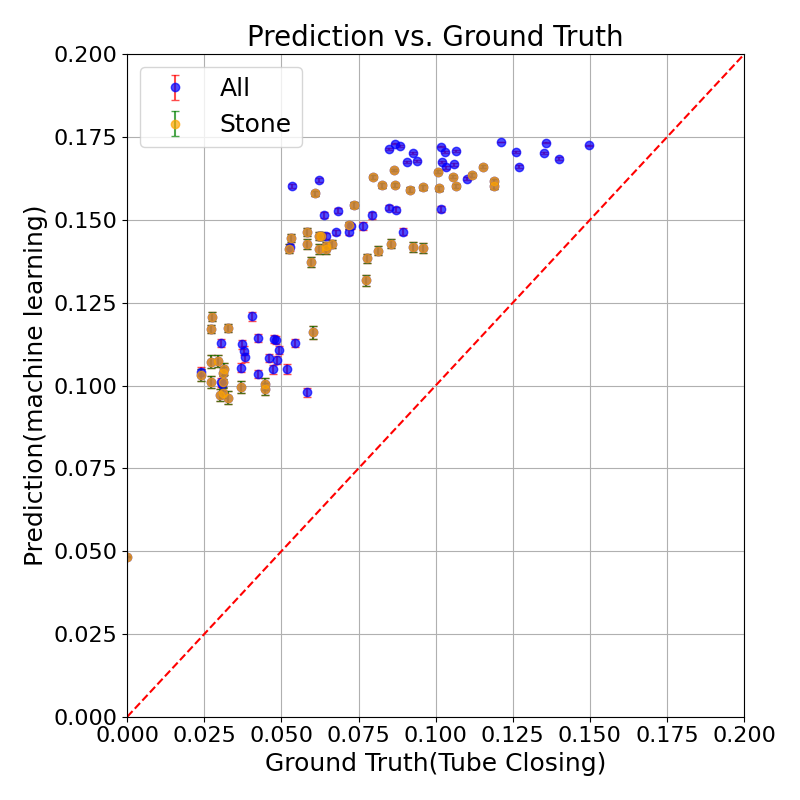
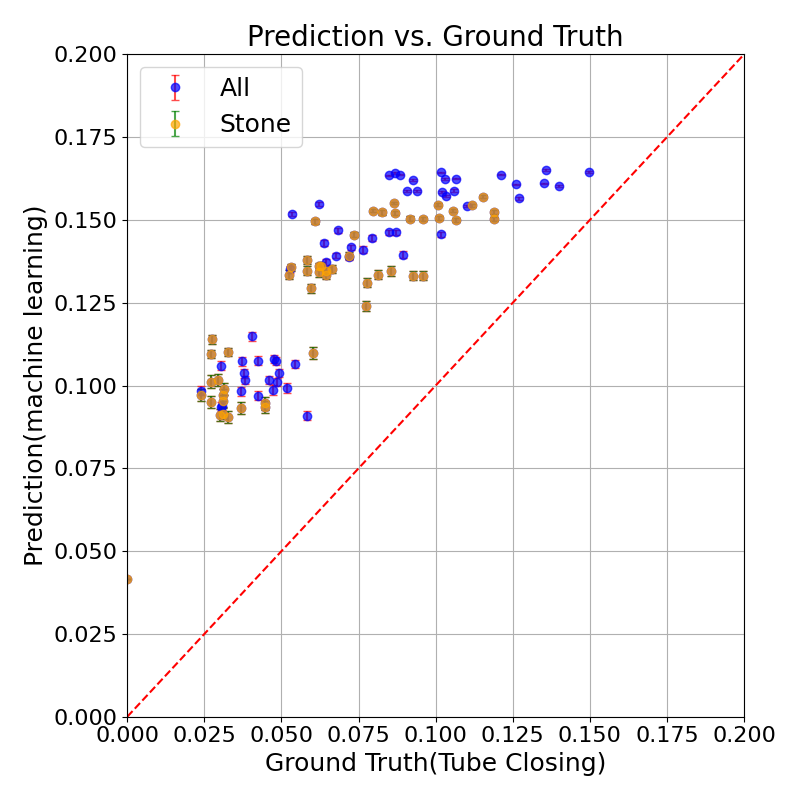
subtle change

Changed region(s): [[0.3438, 0.1562, 0.75, 0.4062], [0.2188, 0.375, 0.4062, 0.5312]]

diff --git a/src/utils.py b/src/utils.py
@@ -132,7 +132,24 @@ def preprocess(path, device="cuda:0", filter_freq=[0, 1.0e9],
     from scipy import signal
     x_tmp = x_test.copy()
     x_tmp_for_fft = x_test.copy()
-    x_test_filterd=filter_signal(filter_freq, x_tmp, fs)
+    import pywt
+
+    x_tmp = x_tmp - np.mean(x_tmp, axis=1)[:,np.newaxis]
+    def maddest(d, axis=None):
+        return np.mean(np.absolute(d - np.mean(d, axis)[:,np.newaxis]), axis)
+    def denoise(x, wavelet='db9', level=1):
+        coeff = pywt.wavedec(x, wavelet, mode="per",axis=1)
+        # print(coeff[-level].shape) (14700, 1500)
+        sigma = (1/0.6745) * maddest(coeff[-level],axis=1)
+        # print(sigma.shape) (14700,)
+        # print(coeff[0].shape) (14700, 24)
+        uthresh = sigma * np.sqrt(2*np.log(x.shape[1]))
+        uthresh = uthresh[:,np.newaxis]
+        coeff[1:] = (pywt.threshold(i, value=uthresh, mode='hard') for i in coeff[1:])
+        return pywt.waverec(coeff, wavelet, mode='per',axis=1)
+    x_test_filterd = denoise(x_tmp)
+
+    # x_test_filterd=filter_signal(filter_freq, x_tmp, fs)
     x_test = x_test_filterd.copy()
     raw_tmp = x_test.copy()
     if if_hilbert:
@@ -243,7 +260,7 @@ def preprocess(path, device="cuda:0", filter_freq=[0, 1.0e9],
         plt.plot(t*1e6,raw_tmp[plot_idx,:],
                  color='blue',label='Raw Signal')
         plt.xlabel("Time (µs)")
-        plt.xlim(0, 10)
+        plt.xlim(0, 50)
         plt.ylim(-1.5, 1.5)
         plt.ylabel("Amplitude (V)")
         plt.tight_layout()
@@ -321,10 +338,10 @@ def  rolling_window_signal(rolling_window, window_size=30, x_test=None):
     if rolling_window:
         s =pl.from_numpy(np.transpose(x_test))
 
-        # s = s.select(pl.all().rolling_mean(
-        #     window_size=window_size//2,
-        #     min_periods=1
-        # ))
+        s = s.select(pl.all().rolling_mean(
+            window_size=window_size//3,
+            min_periods=1
+        ))
         s = s.select(pl.all().rolling_min(
             window_size=window_size,
             min_periods=1
